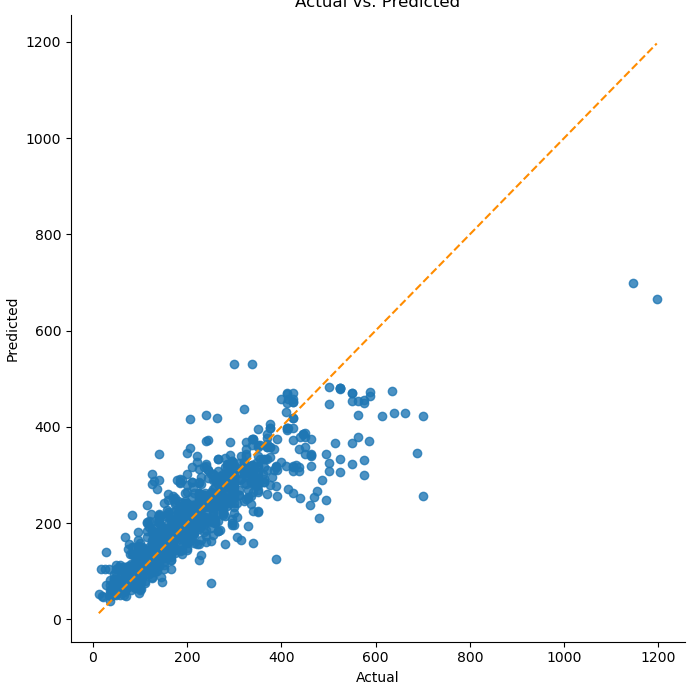
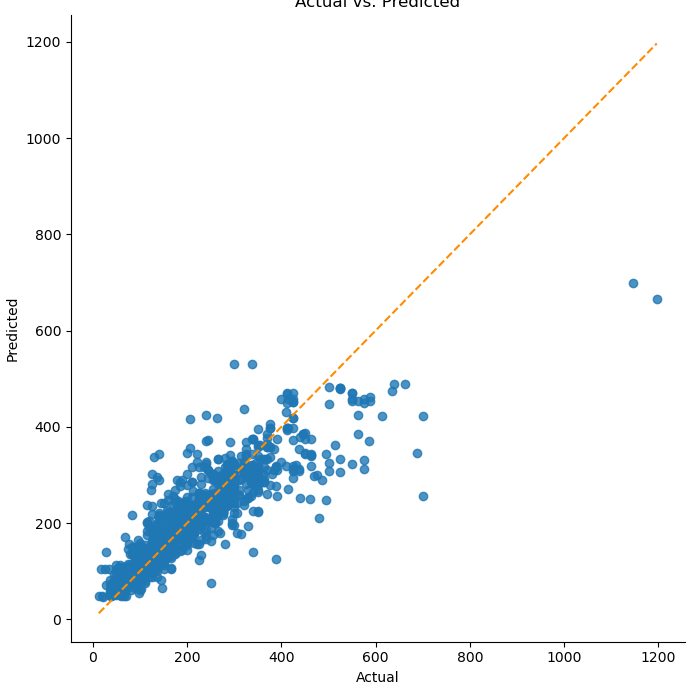
knn

diff --git a/models.py b/models.py
@@ -314,7 +314,7 @@ def run_knn_regression(X, X_addl, use_X_addl, train_size, test_size):
     print(results)
 
     # Run the KNN again on the optimal set of hyperparameters
-    knn_rg = KNeighborsRegressor(n_neighbors=2)
+    knn_rg = KNeighborsRegressor(n_neighbors=5)
     knn_rg.fit(X_train_optimal_features, y_train)
 
     model_helpers.show_model_stats(knn_rg, X_train_optimal_features, y_train, X_test_optimal_features, y_test,
